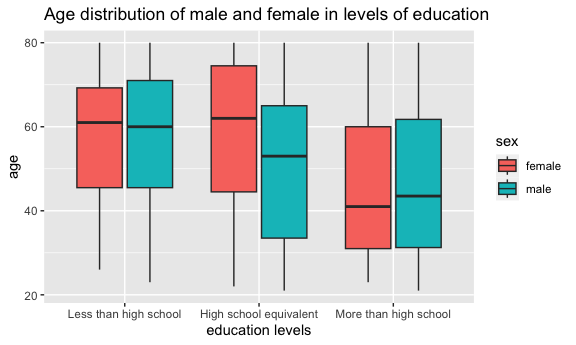
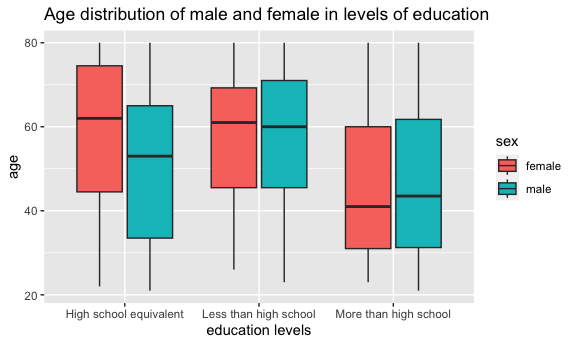
change comments

diff --git a/p8105_hw3_lz2949.md b/p8105_hw3_lz2949.md
@@ -19,7 +19,6 @@ library(tidyverse)
     ## ℹ Use the conflicted package (<http://conflicted.r-lib.org/>) to force all conflicts to become errors
 
 ``` r
-library(dplyr)
 library(ggplot2)
 library(knitr)
 
@@ -51,8 +50,8 @@ products found in 131209 orders from 131209 distinct users.
 ``` r
 num_aisles = unique(instacart$aisle_id) # number of distinct aisles numbers
 frequent_aisles = 
-  instacart %>% 
-  group_by(aisle) %>%
+  instacart |>
+  group_by(aisle) |>
   summarize(total_item = sum(order_number)) |>
   arrange(desc(total_item)) # most items ordered from 
 ```
@@ -77,8 +76,9 @@ instacart |>
 ```
 
 <img src="p8105_hw3_lz2949_files/figure-gfm/unnamed-chunk-4-1.png" width="90%" />
-Comments: From the plot, items ordered from resh vegetable and fresh
-fruit are the most.
+Comments: From the plot, items ordered from fresh vegetable and fresh
+fruit are the most; items ordered from butter and oils vinegars are the
+least.
 
 Make a table showing the three most popular items in “baking
 ingredients”, “dog food care”, and “packaged vegetable fruits”
@@ -186,7 +186,8 @@ states_ten = states_ten |>
 
 Comments: In 2002, there are 6 states observed at 7 or more locations,
 they are CT, FL, MA, NC, NJ, PA; in 2010, the number is 14, they are CA,
-CO, FL, MA, MD, NC, NE, NJ, NY, OH, PA, SC, TX, WA.
+CO, FL, MA, MD, NC, NE, NJ, NY, OH, PA, SC, TX, WA; indicating more
+cities/counties participated in the survay.
 
 I dropped the legend to make the plot easier to intepret.
 
@@ -213,9 +214,9 @@ ggplot(exc_df, aes(x = year,
 
 <img src="p8105_hw3_lz2949_files/figure-gfm/unnamed-chunk-10-1.png" width="90%" />
 Comments: The plot has the general trend of lowering average data value
-over time. For some states, the fluctuation in data value is really big.
-Since the plot contains too many data, it is hard to intepret it
-detailly.
+over time, indicating people are becoming less confident in their
+health. For some states, the fluctuation in data value is big. Since the
+plot contains too many data, it is hard to interpret it in detail.
 
 Make a two-panel plot showing, for 2006/2010, distribution of data_value
 for responses (poor to excellent) among locations in NY state.
@@ -224,7 +225,7 @@ for responses (poor to excellent) among locations in NY state.
 ny_df = ordered_brfss |>
   filter(state_name == "NY", year %in% c(2006, 2010)) 
 
-ny_df$year = as.character(ny_df$year)
+ny_df = transform(ny_df, year = as.character(year))
 ggplot(ny_df, aes(x = fct_inorder(response), y = data_value, fill = year)) + 
   geom_boxplot() +
   facet_grid(.~year)+
@@ -240,7 +241,8 @@ Comments: In 2010, more responses are collected. In 2010, there are 45
 responses, and in 2006, the number is 30. By looking at the plot, poor
 has the least data value and very good has the highest data value; for
 example, in year 2006, “Poor” has a median of 3, while “Very good” has a
-median of 32.55.
+median of 32.55. Both in 2006 and 2010, most people think their overall
+health is `good` or `very good`.
 
 ## Problem 3
 
@@ -275,11 +277,11 @@ nhanes_df =
     ## ℹ Specify the column types or set `show_col_types = FALSE` to quiet this message.
 
 ``` r
-nhanes_df$education = factor(nhanes_df$education, levels = c("Less than high school", "High school equivalent", "More than high school")) # rank education 
+nhanes_df = nhanes_df[order(factor(nhanes_df$education, levels = c("Less than high school", "High school equivalent", "More than high school"))),] # rank education 
 
 nhanes_accel = 
   read_csv("./data/nhanes_accel.csv") |>
-  janitor::clean_names()
+  janitor::clean_names() 
 ```
 
     ## Rows: 250 Columns: 1441
@@ -314,14 +316,14 @@ kable(education_table, caption = "Sex and corresponding education level")
 
 | education              | female | male |
 |:-----------------------|-------:|-----:|
-| Less than high school  |     28 |   27 |
 | High school equivalent |     23 |   35 |
+| Less than high school  |     28 |   27 |
 | More than high school  |     59 |   56 |
 
 Sex and corresponding education level
 
 Comments: At high school equivalent, number of males is larger than
-female, there are 27 males and 28 females. For other two education
+female, there are 35 males and 23 females. For other two education
 levels, the number of males and females are similar.
 
 Create a visualization of the age distributions for men and women in
@@ -342,12 +344,12 @@ median age is 41; for male, the median age is 43.5. At less than high
 school education, the female median age is 61 and the male age is 60.
 
 ``` r
-m_nhanes$sum_nhanes = rowSums(m_nhanes[, 6:1445])
+m_nhanes= transform(m_nhanes, sum_nhanes = rowSums(m_nhanes[, 6:1445]))
 
 ggplot(m_nhanes, aes(x = age, y = sum_nhanes, color = sex)) +
-  geom_point() +
+  geom_point(alpha = 0.5) +
   geom_smooth(se = FALSE) +
-  facet_wrap(.~ education) +
+  facet_grid(.~ education) +
   labs(
     title = "Total Activity vs. Age by Education Level",
     x = "Age",
@@ -359,17 +361,20 @@ ggplot(m_nhanes, aes(x = age, y = sum_nhanes, color = sex)) +
 
 <img src="p8105_hw3_lz2949_files/figure-gfm/unnamed-chunk-15-1.png" width="90%" />
 Comments: At high school equivalent and more than high school education
-levels, males tend to have less daily total activity than females. For
-example, in the more than high school group, the average total activity
-for male is 1.2041457^{4} minutes. For female, the number is
-1.3812863^{4} minutes. Additionally, in all three groups, higher age
-people tend to have lower total activities.
+levels, males tend to have less daily total activity than females at all
+age groups. For example, in the more than high school group, the average
+total activity for male is 1.2041457^{4} minutes. For female, the number
+is 1.3812863^{4} minutes. Additionally, in all three groups, higher age
+people tend to have lower total activities. In less than high school and
+more than high school groups, people at age ~60 have the most total
+activity in a day. In high school equivalent group, peole at age ~40
+have the most total activity in a day compare to other age groups.
 
 ``` r
 day_activity = m_nhanes |>
   pivot_longer(cols = min1:min1440, names_to = "activity_minutes", values_to = "activity") 
 
-day_activity$activity_minutes = as.numeric(gsub("min", "", day_activity$activity_minutes)) # remove "min" in the xlabel, and convert it to dbl
+day_activity= transform(day_activity, activity_minutes =  as.numeric(gsub("min", "", activity_minutes)))# remove "min" in the xlabel, and convert it to dbl
 
 ggplot(day_activity, aes(x=activity_minutes, y = activity, color = sex))+
   geom_point(alpha = 0.05) +
@@ -390,7 +395,10 @@ ggplot(day_activity, aes(x=activity_minutes, y = activity, color = sex))+
 
 <img src="p8105_hw3_lz2949_files/figure-gfm/unnamed-chunk-16-1.png" width="90%" />
 Comments: From these plots, females and males at each education level
-has similar activity trend in the day. People are most active in the
-morning and afternoon. From the trend line, females are more active than
-males when they have education at “high school equivalent” or “more than
-high school”.
+has similar activity trend in the day. Participants are most active
+between `min400` to `min1200`; Participants are least active around
+`min300` in all three education levels which may because at that time
+most people were sleeping. From the trend line, females are little more
+active than males when they have education at “high school equivalent”
+or “more than high school”. In `more than high school` group, some
+participants have very intense activity between `min400` to `min1200`.
